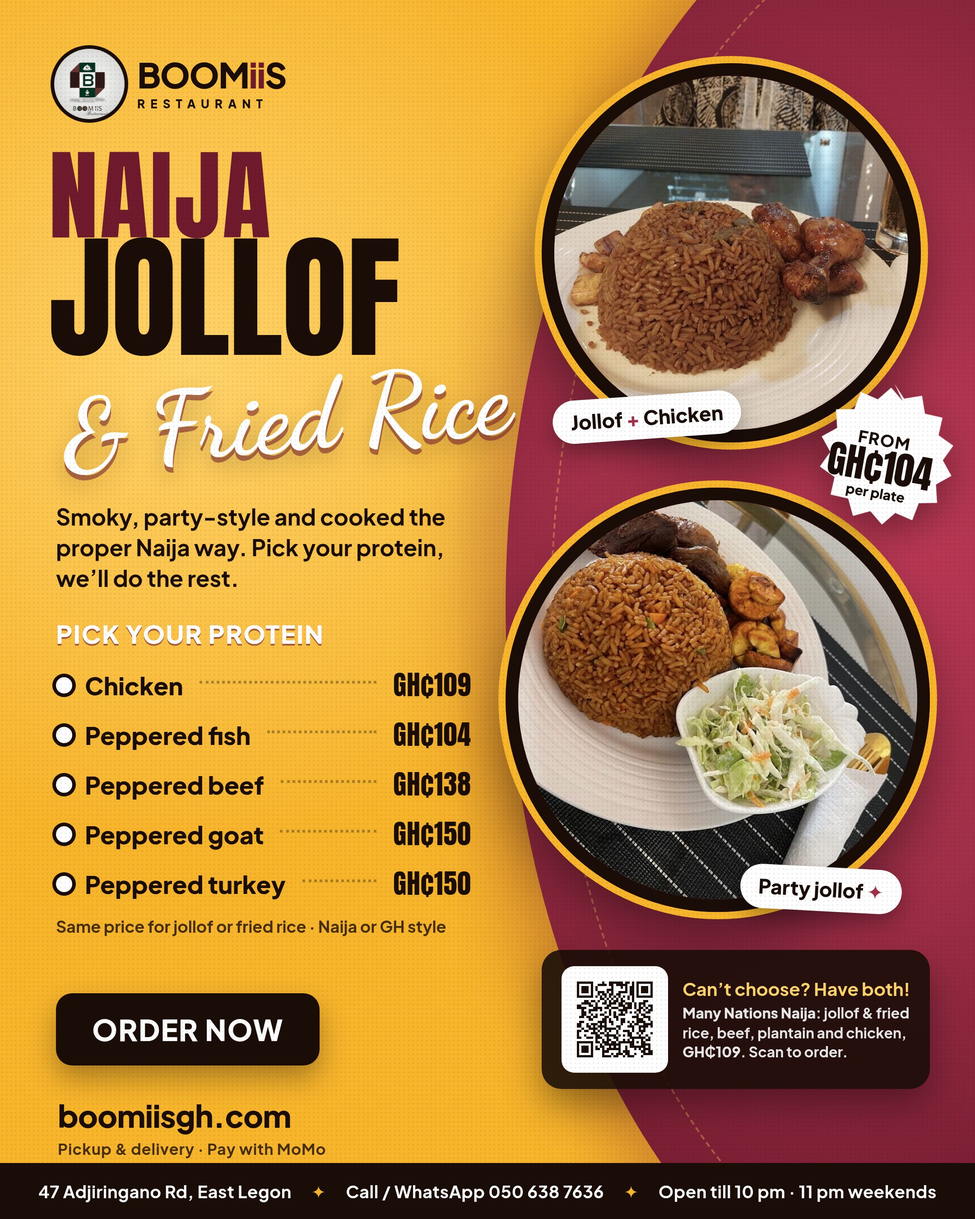
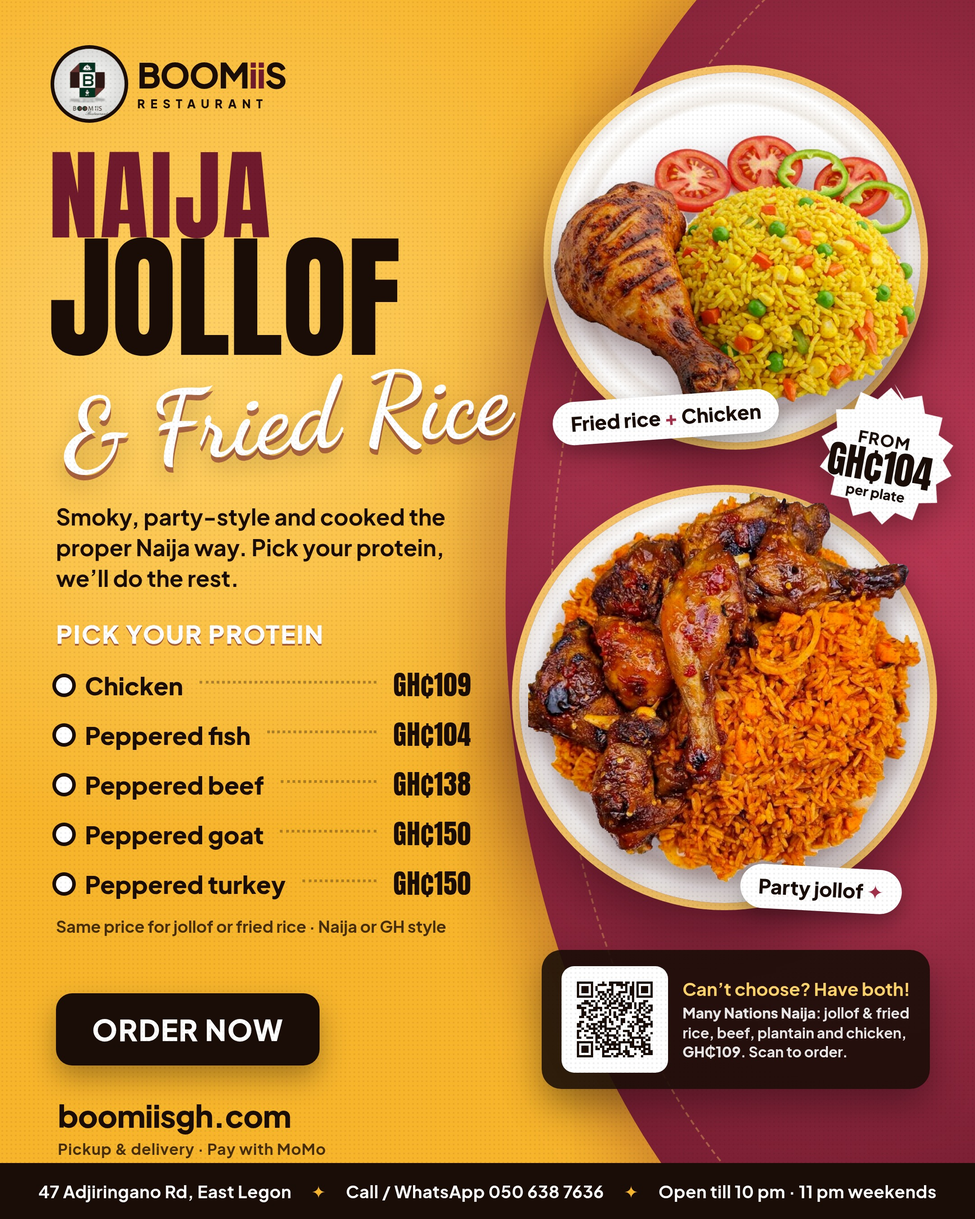
Jollof poster: cut-out fried rice and jollof plates
Claude-Session: https://claude.ai/code/session_01Vo2in69Xk8axWXbahPUpEo

Changed region(s): [[0.4963, 0.0311, 0.9616, 0.7778]]

diff --git a/marketing/poster-naija-jollof.html b/marketing/poster-naija-jollof.html
@@ -40,12 +40,13 @@
   .web small{display:block;font-size:17px;font-weight:700;letter-spacing:.5px;opacity:.8;margin-top:4px}
 
   /* plates */
-  .plate{border-radius:50%;overflow:hidden;border:14px solid var(--ink);box-shadow:0 0 0 8px var(--gold),0 30px 60px rgba(0,0,0,.45)}
-  .plate img{width:100%;height:100%;object-fit:cover}
-  .p1{left:600px;top:70px;width:420px;height:420px}
-  .p1 img{object-position:50% 50%}
-  .p2{left:560px;top:540px;width:470px;height:470px}
-  .p2 img{object-position:50% 45%}
+  /* studio plates: white plate drawn in CSS, cut-out food on top */
+  .plate{border-radius:50%;background:radial-gradient(circle at 50% 50%,#fff 0 58%,#f1ece6 60%,#fff 66%,#e9e2da 72%,#fff 76%,#ddd5cc 100%);box-shadow:0 0 0 8px rgba(255,211,106,.9),0 40px 70px rgba(40,6,14,.55)}
+  .food{filter:drop-shadow(0 18px 18px rgba(40,6,14,.45)) saturate(1.08) contrast(1.04)}
+  .p1{left:610px;top:80px;width:410px;height:410px}
+  .f1{left:614px;top:150px;width:400px}
+  .p2{left:575px;top:545px;width:455px;height:455px}
+  .f2{left:585px;top:545px;width:435px}
   .lbl{padding:10px 20px;border-radius:999px;background:#fff;font-weight:800;font-size:22px;box-shadow:0 10px 24px rgba(0,0,0,.3);white-space:nowrap}
   .lbl1{left:612px;top:438px;transform:rotate(-4deg)}
   .lbl2{left:820px;top:960px;transform:rotate(3deg)}
@@ -96,9 +97,11 @@
   <div class="abs cta"><span class="btn">ORDER NOW</span></div>
   <div class="abs web">boomiisgh.com<small>Pickup &amp; delivery · Pay with MoMo</small></div>
 
-  <div class="abs plate p1"><img src="../assets/jollof-plate.jpg" alt=""></div>
-  <div class="abs lbl lbl1">Jollof <i>+</i> Chicken</div>
-  <div class="abs plate p2"><img src="../assets/jollof-chicken.jpg" alt=""></div>
+  <div class="abs plate p1"></div>
+  <img class="abs food f1" src="food-fried-rice.png" alt="Fried rice with chicken">
+  <div class="abs lbl lbl1">Fried rice <i>+</i> Chicken</div>
+  <div class="abs plate p2"></div>
+  <img class="abs food f2" src="food-jollof.png" alt="Naija jollof with chicken">
   <div class="abs lbl lbl2">Party jollof <i>✦</i></div>
 
   <div class="abs burst">
